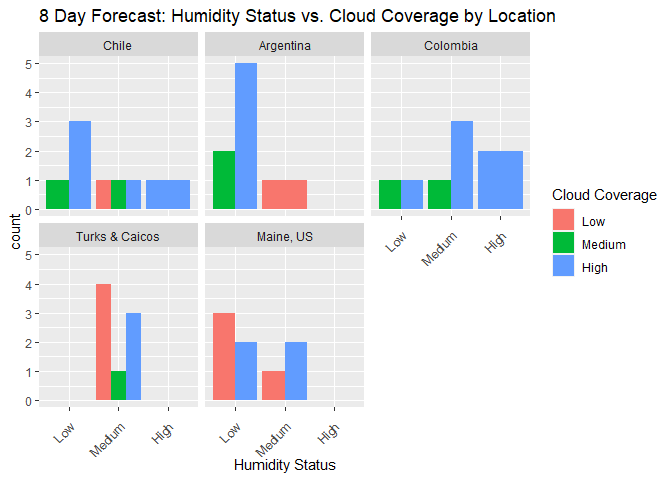
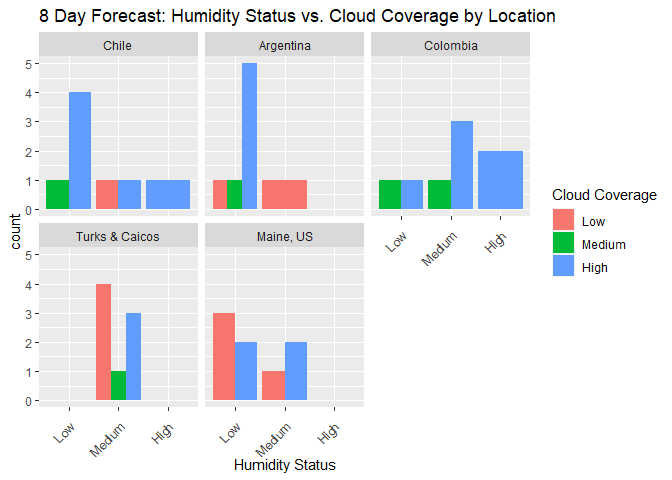
reload plots

Changed region(s): [[0.3125, 0.125, 0.375, 0.4375], [0.0938, 0.1875, 0.1562, 0.25], [0.1562, 0.375, 0.1875, 0.4375]]

diff --git a/Biggie_WeatherAPI_Project.md b/Biggie_WeatherAPI_Project.md
@@ -4,17 +4,17 @@ Autumn Biggie
 10/3/2021
 
 <head>
- <script src="/assets/jquery-1.11.1/jquery.min.js"></script>
+ <script src="https://rstudio.github.io/leaflet/assets/jquery-1.11.1/jquery.min.js"></script>
  <meta name="viewport" content="width=device-width, initial-scale=1" /> 
- <link href="/assets/bootstrap-3.3.1/css/bootstrap.min.css" rel="stylesheet" />
- <script src="/assets/bootstrap-3.3.1/js/bootstrap.min.js"></script>
- <script src="/assets/bootstrap-3.3.1/shim/html5shiv.min.js"></script>
- <script src="/assets/bootstrap-3.3.1/shim/respond.min.js"></script>
- <script src="/assets/htmlwidgets-0.5/htmlwidgets.js"></script>
- <link href="/assets/leaflet-0.7.3/leaflet.css" rel="stylesheet" />
- <script src="/assets/leaflet-0.7.3/leaflet.js"></script>
- <link href="/assets/leafletfix-1.0.0/leafletfix.css" rel="stylesheet" />
- <script src="/assets/leaflet-binding-1.0.1/leaflet.js"></script>
+ <link href="https://rstudio.github.io/leaflet/assets/bootstrap-3.3.1/css/bootstrap.min.css" rel="stylesheet" />
+ <script src="https://rstudio.github.io/leaflet/assets/bootstrap-3.3.1/js/bootstrap.min.js"></script>
+ <script src="https://rstudio.github.io/leaflet/assets/bootstrap-3.3.1/shim/html5shiv.min.js"></script>
+ <script src="https://rstudio.github.io/leaflet/assets/bootstrap-3.3.1/shim/respond.min.js"></script>
+ <script src="https://rstudio.github.io/leaflet/assets/htmlwidgets-0.5/htmlwidgets.js"></script>
+ <link href="https://rstudio.github.io/leaflet/assets/leaflet-0.7.3/leaflet.css" rel="stylesheet" />
+ <script src="https://rstudio.github.io/leaflet/assets/leaflet-0.7.3/leaflet.js"></script>
+ <link href="https://rstudio.github.io/leaflet/assets/leafletfix-1.0.0/leafletfix.css" rel="stylesheet" />
+ <script src="https://rstudio.github.io/leaflet/assets/leaflet-binding-1.0.1/leaflet.js"></script>
 </head>
 
 In this document, we’ll walk through how to connect to an API, using an
@@ -117,8 +117,8 @@ analysis.
 I want to explore the weather data of five locations that lie roughly
 along the same line of longitude.
 
-<div id="htmlwidget-f006a532f02b135b45c4" style="width:672px;height:480px;" class="leaflet html-widget"></div>
-<script type="application/json" data-for="htmlwidget-f006a532f02b135b45c4">{"x":{"options":{"crs":{"crsClass":"L.CRS.EPSG3857","code":null,"proj4def":null,"projectedBounds":null,"options":{}}},"setView":[[0,-80],1,[]],"calls":[{"method":"addTiles","args":["//{s}.tile.openstreetmap.org/{z}/{x}/{y}.png",null,null,{"minZoom":0,"maxZoom":18,"tileSize":256,"subdomains":"abc","errorTileUrl":"","tms":false,"noWrap":false,"zoomOffset":0,"zoomReverse":false,"opacity":1,"zIndex":1,"detectRetina":false,"attribution":"&copy; <a href=\"http://openstreetmap.org\">OpenStreetMap<\/a> contributors, <a href=\"http://creativecommons.org/licenses/by-sa/2.0/\">CC-BY-SA<\/a>"}]},{"method":"addMarkers","args":[[44.19,21.28,7.54,-55.05,-51.38],[-69.47,-71.08,-72.3,-67.05,-69.13],null,null,null,{"interactive":true,"draggable":false,"keyboard":true,"title":"","alt":"","zIndexOffset":0,"opacity":1,"riseOnHover":false,"riseOffset":250},["Augusta, Maine, US","Cockburn Town, Turks & Caicos Islands","Cucata, Colombia","Puerto Toro, Chile","Rio Gallegos, Argentina"],null,null,null,null,{"interactive":false,"permanent":false,"direction":"auto","opacity":1,"offset":[0,0],"textsize":"10px","textOnly":false,"className":"","sticky":true},null]}],"limits":{"lat":[-55.05,44.19],"lng":[-72.3,-67.05]}},"evals":[],"jsHooks":[]}</script>
+<div id="htmlwidget-41770cd5477d700326f1" style="width:672px;height:480px;" class="leaflet html-widget"></div>
+<script type="application/json" data-for="htmlwidget-41770cd5477d700326f1">{"x":{"options":{"crs":{"crsClass":"L.CRS.EPSG3857","code":null,"proj4def":null,"projectedBounds":null,"options":{}}},"setView":[[0,-80],1,[]],"calls":[{"method":"addTiles","args":["//{s}.tile.openstreetmap.org/{z}/{x}/{y}.png",null,null,{"minZoom":0,"maxZoom":18,"tileSize":256,"subdomains":"abc","errorTileUrl":"","tms":false,"noWrap":false,"zoomOffset":0,"zoomReverse":false,"opacity":1,"zIndex":1,"detectRetina":false,"attribution":"&copy; <a href=\"http://openstreetmap.org\">OpenStreetMap<\/a> contributors, <a href=\"http://creativecommons.org/licenses/by-sa/2.0/\">CC-BY-SA<\/a>"}]},{"method":"addMarkers","args":[[44.19,21.28,7.54,-55.05,-51.38],[-69.47,-71.08,-72.3,-67.05,-69.13],null,null,null,{"interactive":true,"draggable":false,"keyboard":true,"title":"","alt":"","zIndexOffset":0,"opacity":1,"riseOnHover":false,"riseOffset":250},["Augusta, Maine, US","Cockburn Town, Turks & Caicos Islands","Cucata, Colombia","Puerto Toro, Chile","Rio Gallegos, Argentina"],null,null,null,null,{"interactive":false,"permanent":false,"direction":"auto","opacity":1,"offset":[0,0],"textsize":"10px","textOnly":false,"className":"","sticky":true},null]}],"limits":{"lat":[-55.05,44.19],"lng":[-72.3,-67.05]}},"evals":[],"jsHooks":[]}</script>
 
 Locations:
 
@@ -148,7 +148,7 @@ Maine.day
     ## 7 1633968000 1633949266 1633989660 1633972140 1634002920       0.20    18.76
     ## 8 1634054400 1634035740 1634075955 1634062320 1634093100       0.25    23.38
     ##   temp.min temp.max temp.night temp.eve temp.morn feels_like.day
-    ## 1     7.96    19.43      10.85    12.70      8.29          17.17
+    ## 1     7.96    19.43      10.08    13.11      8.29          17.17
     ## 2     8.60    21.52      11.16    15.22      8.60          19.67
     ## 3     9.90    21.79      11.91    15.33      9.92          20.38
     ## 4     9.99    21.93      12.22    19.40     10.07          20.27
@@ -157,7 +157,7 @@ Maine.day
     ## 7     9.66    21.78      15.50    18.94      9.66          18.39
     ## 8    14.01    23.38      14.01    20.06     15.49          23.42
     ##   feels_like.night feels_like.eve feels_like.morn pressure humidity dew_point
-    ## 1            10.37          12.17            7.53     1024       54      8.24
+    ## 1             9.55          12.57            7.53     1024       54      8.24
     ## 2            10.73          14.78            8.06     1027       51      9.69
     ## 3            11.64          14.96            9.92     1025       54     10.99
     ## 4            11.33          19.09            9.51     1022       50      9.93
@@ -316,22 +316,22 @@ weather
     ## 22       Colombia 2021    10  10 06:36:12 18:35:43 10:35:00 22:36:00       0.16
     ## 23       Colombia 2021    10  11 06:36:08 18:35:16 11:39:00 23:38:00       0.20
     ## 24       Colombia 2021    10  12 06:36:05 18:34:48 12:40:00 19:00:00       0.25
-    ## 25      Argentina 2021    10   5 05:54:48 18:54:39 06:06:00 17:54:00       0.97
-    ## 26      Argentina 2021    10   6 05:52:32 18:56:19 06:23:00 19:19:00       0.00
-    ## 27      Argentina 2021    10   7 05:50:17 18:57:58 06:40:00 20:46:00       0.04
-    ## 28      Argentina 2021    10   8 05:48:02 18:59:38 06:59:00 22:15:00       0.08
-    ## 29      Argentina 2021    10   9 05:45:48 19:01:19 07:22:00 19:00:00       0.12
-    ## 30      Argentina 2021    10  10 05:43:34 19:03:00 07:54:00 23:43:00       0.16
-    ## 31      Argentina 2021    10  11 05:41:21 19:04:41 08:37:00 01:07:00       0.19
-    ## 32      Argentina 2021    10  12 05:39:09 19:06:23 09:34:00 02:18:00       0.23
-    ## 33          Chile 2021    10   5 05:42:28 18:50:21 06:01:00 17:44:00       0.97
-    ## 34          Chile 2021    10   6 05:39:55 18:52:17 06:13:00 19:14:00       0.00
-    ## 35          Chile 2021    10   7 05:37:23 18:54:14 06:25:00 20:47:00       0.04
-    ## 36          Chile 2021    10   8 05:34:51 18:56:11 06:40:00 22:21:00       0.08
-    ## 37          Chile 2021    10   9 05:32:20 18:58:09 06:58:00 19:00:00       0.12
-    ## 38          Chile 2021    10  10 05:29:49 19:00:07 07:24:00 23:56:00       0.16
-    ## 39          Chile 2021    10  11 05:27:18 19:02:06 08:02:00 01:23:00       0.19
-    ## 40          Chile 2021    10  12 05:24:49 19:04:05 08:57:00 02:37:00       0.23
+    ## 25      Argentina 2021    10   6 05:52:32 18:56:19 06:23:00 19:19:00       0.00
+    ## 26      Argentina 2021    10   7 05:50:17 18:57:58 06:40:00 20:46:00       0.04
+    ## 27      Argentina 2021    10   8 05:48:02 18:59:38 06:59:00 22:15:00       0.08
+    ## 28      Argentina 2021    10   9 05:45:48 19:01:19 07:22:00 19:00:00       0.12
+    ## 29      Argentina 2021    10  10 05:43:34 19:03:00 07:54:00 23:43:00       0.16
+    ## 30      Argentina 2021    10  11 05:41:21 19:04:41 08:37:00 01:07:00       0.19
+    ## 31      Argentina 2021    10  12 05:39:09 19:06:23 09:34:00 02:18:00       0.23
+    ## 32      Argentina 2021    10  13 05:36:57 19:08:05 10:44:00 03:13:00       0.25
+    ## 33          Chile 2021    10   6 05:39:55 18:52:17 06:13:00 19:14:00       0.00
+    ## 34          Chile 2021    10   7 05:37:23 18:54:14 06:25:00 20:47:00       0.04
+    ## 35          Chile 2021    10   8 05:34:51 18:56:11 06:40:00 22:21:00       0.08
+    ## 36          Chile 2021    10   9 05:32:20 18:58:09 06:58:00 19:00:00       0.12
+    ## 37          Chile 2021    10  10 05:29:49 19:00:07 07:24:00 23:56:00       0.16
+    ## 38          Chile 2021    10  11 05:27:18 19:02:06 08:02:00 01:23:00       0.19
+    ## 39          Chile 2021    10  12 05:24:49 19:04:05 08:57:00 02:37:00       0.23
+    ## 40          Chile 2021    10  13 05:22:19 19:06:05 10:09:00 03:30:00       0.25
     ##    pressure humidity dew_point wind_speed wind_deg wind_gust clouds  pop
     ## 1      1024       54      8.24       1.89       23      3.60     94 0.04
     ## 2      1027       51      9.69       1.87      345      3.02      4 0.00
@@ -357,22 +357,22 @@ weather
     ## 22     1015       66     14.73       1.83      111      2.81     43 1.00
     ## 23     1016       77     15.67       1.97      109      3.03     94 1.00
     ## 24     1016       73     15.98       2.15      106      2.98    100 1.00
-    ## 25     1021       45     -3.92      12.91      223     18.57     36 0.00
-    ## 26     1010       39     -4.04      14.48      241     20.62    100 0.20
-    ## 27     1014       59      1.03      13.21      242     18.16     43 0.00
-    ## 28     1000       43      2.19      13.13      230     16.16    100 0.00
-    ## 29      997       46      3.73      13.20      318     21.65    100 0.35
-    ## 30     1006       62      2.28      10.85       25     13.41     12 0.89
-    ## 31     1007       42     -2.38       6.71       25      8.64     81 0.00
-    ## 32      988       38     -1.03      11.42      332     15.32    100 0.01
-    ## 33     1017       66     -1.15      10.51      226     16.68     33 0.83
-    ## 34     1001       59      1.10       7.10      244     13.10     96 0.90
-    ## 35     1008       58     -0.61       8.44      236     14.17     98 0.00
-    ## 36      989       59      2.31      10.15      257     19.04     99 0.60
-    ## 37      988       85      3.47       8.70      333     20.81    100 0.64
-    ## 38     1000       61     -0.51      10.79      322     21.31     17 0.13
-    ## 39     1000       55     -0.98       8.14      330     15.48     59 0.07
-    ## 40      986       63      2.60       5.21      359     10.83    100 0.00
+    ## 25     1010       39     -4.04      14.48      241     20.62    100 0.20
+    ## 26     1014       59      1.03      13.21      242     18.16     43 0.00
+    ## 27     1000       43      2.19      13.13      230     16.16    100 0.00
+    ## 28      997       46      3.73      13.20      318     21.65    100 0.35
+    ## 29     1006       62      2.28      10.85       25     13.41     12 0.89
+    ## 30     1007       42     -2.38       6.71       25      8.64     81 0.00
+    ## 31      988       38     -1.03      11.42      332     15.32    100 0.01
+    ## 32      992       41     -4.98      12.41      251     16.71      5 0.39
+    ## 33     1001       59      1.10       7.10      244     13.10     96 0.90
+    ## 34     1008       58     -0.61       8.44      236     14.17     98 0.00
+    ## 35      989       59      2.31      10.15      257     19.04     99 0.60
+    ## 36      988       85      3.47       8.70      333     20.81    100 0.64
+    ## 37     1000       61     -0.51      10.79      322     21.31     17 0.13
+    ## 38     1000       55     -0.98       8.14      330     15.48     59 0.07
+    ## 39      986       63      2.60       5.21      359     10.83    100 0.00
+    ## 40      984       53     -3.25       7.81      320     13.95     96 0.84
     ##    mintemp maxtemp humidity.status cloud.coverage
     ## 1     7.96   19.43             Low           High
     ## 2     8.60   21.52             Low            Low
@@ -382,8 +382,8 @@ weather
     ## 6     5.98   16.11          Medium           High
     ## 7     9.66   21.78          Medium           High
     ## 8    14.01   23.38          Medium            Low
-    ## 9    28.45   28.76          Medium           High
-    ## 10   28.54   28.76          Medium            Low
+    ## 9    28.42   28.76          Medium           High
+    ## 10   28.52   28.76          Medium            Low
     ## 11   28.09   28.64          Medium            Low
     ## 12   27.88   28.54          Medium            Low
     ## 13   28.11   28.76          Medium            Low
@@ -398,22 +398,22 @@ weather
     ## 22   12.73   20.25          Medium         Medium
     ## 23   12.55   19.68          Medium           High
     ## 24   14.04   20.23          Medium           High
-    ## 25    1.34    8.99             Low         Medium
-    ## 26    1.93   12.61             Low           High
-    ## 27    3.24    9.67             Low         Medium
-    ## 28    6.48   14.69             Low           High
-    ## 29    5.83   16.58             Low           High
-    ## 30    3.94   12.20          Medium            Low
-    ## 31    5.28   11.35             Low           High
-    ## 32    6.66   14.54             Low           High
-    ## 33    1.84    6.24          Medium         Medium
-    ## 34    2.02    9.94             Low           High
-    ## 35    1.95    8.16             Low           High
-    ## 36    4.42   10.65             Low           High
-    ## 37    2.05    9.95            High           High
-    ## 38    2.07    8.73          Medium            Low
-    ## 39    3.08    8.76             Low         Medium
-    ## 40    3.99   11.44          Medium           High
+    ## 25    1.34   12.61             Low           High
+    ## 26    3.24    9.67             Low         Medium
+    ## 27    6.48   14.69             Low           High
+    ## 28    5.83   16.58             Low           High
+    ## 29    3.94   12.20          Medium            Low
+    ## 30    5.28   11.35             Low           High
+    ## 31    6.66   14.54             Low           High
+    ## 32    3.21    8.22             Low            Low
+    ## 33    1.72    9.94             Low           High
+    ## 34    1.95    8.16             Low           High
+    ## 35    4.42   10.65             Low           High
+    ## 36    2.05    9.95            High           High
+    ## 37    2.07    8.73          Medium            Low
+    ## 38    3.08    8.76             Low         Medium
+    ## 39    3.99   11.44          Medium           High
+    ## 40    1.52    6.84             Low           High
 
 ### Contingency Tables
 
@@ -429,8 +429,8 @@ tabz1
 
     ##                        weather$cloud.coverage
     ## weather$humidity.status Low Medium High
-    ##                  Low      3      4   11
-    ##                  Medium   7      3    9
+    ##                  Low      4      3   12
+    ##                  Medium   7      2    9
     ##                  High     0      0    3
 
 It looks like there were 10 forecast observations that predicted high
@@ -452,7 +452,7 @@ tabz2
     ## 
     ##                        weather$cloud.coverage
     ## weather$humidity.status Low Medium High
-    ##                  Low      0      2    5
+    ##                  Low      1      1    5
     ##                  Medium   1      0    0
     ##                  High     0      0    0
     ## 
@@ -460,8 +460,8 @@ tabz2
     ## 
     ##                        weather$cloud.coverage
     ## weather$humidity.status Low Medium High
-    ##                  Low      0      1    3
-    ##                  Medium   1      1    1
+    ##                  Low      0      1    4
+    ##                  Medium   1      0    1
     ##                  High     0      0    1
     ## 
     ## , , weather$location = Colombia
@@ -517,10 +517,10 @@ weather %>% group_by(location) %>% summarise(avghigh = mean(maxtemp), avglow = m
     ## # A tibble: 5 x 6
     ##   location       avghigh avglow sdhigh sdlow   IQR
     ##   <ord>            <dbl>  <dbl>  <dbl> <dbl> <dbl>
-    ## 1 Chile             9.23   2.68  1.62  1.02  1.54 
-    ## 2 Argentina        12.6    4.34  2.60  2.04  3.65 
+    ## 1 Chile             9.31   2.6   1.47  1.10  1.54 
+    ## 2 Argentina        12.5    4.50  2.76  1.87  3.65 
     ## 3 Colombia         20.4   12.9   1.12  0.607 0.565
-    ## 4 Turks & Caicos   28.7   28.3   0.107 0.242 0.105
+    ## 4 Turks & Caicos   28.7   28.3   0.107 0.236 0.105
     ## 5 Maine, US        20.0    9.10  3.19  2.47  3.23
 
 It’s clear that the average high and average low peak near the middle of
@@ -537,8 +537,8 @@ weather %>% group_by(location) %>% summarise(avg_humidity = mean(humidity), sd.h
     ## # A tibble: 5 x 3
     ##   location       avg_humidity sd.humidity
     ##   <ord>                 <dbl>       <dbl>
-    ## 1 Chile                  63.2        9.39
-    ## 2 Argentina              46.8        8.94
+    ## 1 Chile                  61.6        9.96
+    ## 2 Argentina              46.2        9.16
     ## 3 Colombia               70.4       11.3 
     ## 4 Turks & Caicos         75.5        1.41
     ## 5 Maine, US              57.6        6.78
@@ -672,22 +672,22 @@ weather
     ## 22       Colombia 2021    10  10  396.20 1115.72      635    1356       0.16
     ## 23       Colombia 2021    10  11  396.13 1115.27      699    1418       0.20
     ## 24       Colombia 2021    10  12  396.08 1114.80      760    1140       0.25
-    ## 25      Argentina 2021    10   5  354.80 1134.65      366    1074       0.97
-    ## 26      Argentina 2021    10   6  352.53 1136.32      383    1159       0.00
-    ## 27      Argentina 2021    10   7  350.28 1137.97      400    1246       0.04
-    ## 28      Argentina 2021    10   8  348.03 1139.63      419    1335       0.08
-    ## 29      Argentina 2021    10   9  345.80 1141.32      442    1140       0.12
-    ## 30      Argentina 2021    10  10  343.57 1143.00      474    1423       0.16
-    ## 31      Argentina 2021    10  11  341.35 1144.68      517      67       0.19
-    ## 32      Argentina 2021    10  12  339.15 1146.38      574     138       0.23
-    ## 33          Chile 2021    10   5  342.47 1130.35      361    1064       0.97
-    ## 34          Chile 2021    10   6  339.92 1132.28      373    1154       0.00
-    ## 35          Chile 2021    10   7  337.38 1134.23      385    1247       0.04
-    ## 36          Chile 2021    10   8  334.85 1136.18      400    1341       0.08
-    ## 37          Chile 2021    10   9  332.33 1138.15      418    1140       0.12
-    ## 38          Chile 2021    10  10  329.82 1140.12      444    1436       0.16
-    ## 39          Chile 2021    10  11  327.30 1142.10      482      83       0.19
-    ## 40          Chile 2021    10  12  324.82 1144.08      537     157       0.23
+    ## 25      Argentina 2021    10   6  352.53 1136.32      383    1159       0.00
+    ## 26      Argentina 2021    10   7  350.28 1137.97      400    1246       0.04
+    ## 27      Argentina 2021    10   8  348.03 1139.63      419    1335       0.08
+    ## 28      Argentina 2021    10   9  345.80 1141.32      442    1140       0.12
+    ## 29      Argentina 2021    10  10  343.57 1143.00      474    1423       0.16
+    ## 30      Argentina 2021    10  11  341.35 1144.68      517      67       0.19
+    ## 31      Argentina 2021    10  12  339.15 1146.38      574     138       0.23
+    ## 32      Argentina 2021    10  13  336.95 1148.08      644     193       0.25
+    ## 33          Chile 2021    10   6  339.92 1132.28      373    1154       0.00
+    ## 34          Chile 2021    10   7  337.38 1134.23      385    1247       0.04
+    ## 35          Chile 2021    10   8  334.85 1136.18      400    1341       0.08
+    ## 36          Chile 2021    10   9  332.33 1138.15      418    1140       0.12
+    ## 37          Chile 2021    10  10  329.82 1140.12      444    1436       0.16
+    ## 38          Chile 2021    10  11  327.30 1142.10      482      83       0.19
+    ## 39          Chile 2021    10  12  324.82 1144.08      537     157       0.23
+    ## 40          Chile 2021    10  13  322.32 1146.08      609     210       0.25
     ##    pressure humidity dew_point wind_speed wind_deg wind_gust clouds  pop
     ## 1      1024       54      8.24       1.89       23      3.60     94 0.04
     ## 2      1027       51      9.69       1.87      345      3.02      4 0.00
@@ -713,22 +713,22 @@ weather
     ## 22     1015       66     14.73       1.83      111      2.81     43 1.00
     ## 23     1016       77     15.67       1.97      109      3.03     94 1.00
     ## 24     1016       73     15.98       2.15      106      2.98    100 1.00
-    ## 25     1021       45     -3.92      12.91      223     18.57     36 0.00
-    ## 26     1010       39     -4.04      14.48      241     20.62    100 0.20
-    ## 27     1014       59      1.03      13.21      242     18.16     43 0.00
-    ## 28     1000       43      2.19      13.13      230     16.16    100 0.00
-    ## 29      997       46      3.73      13.20      318     21.65    100 0.35
-    ## 30     1006       62      2.28      10.85       25     13.41     12 0.89
-    ## 31     1007       42     -2.38       6.71       25      8.64     81 0.00
-    ## 32      988       38     -1.03      11.42      332     15.32    100 0.01
-    ## 33     1017       66     -1.15      10.51      226     16.68     33 0.83
-    ## 34     1001       59      1.10       7.10      244     13.10     96 0.90
-    ## 35     1008       58     -0.61       8.44      236     14.17     98 0.00
-    ## 36      989       59      2.31      10.15      257     19.04     99 0.60
-    ## 37      988       85      3.47       8.70      333     20.81    100 0.64
-    ## 38     1000       61     -0.51      10.79      322     21.31     17 0.13
-    ## 39     1000       55     -0.98       8.14      330     15.48     59 0.07
-    ## 40      986       63      2.60       5.21      359     10.83    100 0.00
+    ## 25     1010       39     -4.04      14.48      241     20.62    100 0.20
+    ## 26     1014       59      1.03      13.21      242     18.16     43 0.00
+    ## 27     1000       43      2.19      13.13      230     16.16    100 0.00
+    ## 28      997       46      3.73      13.20      318     21.65    100 0.35
+    ## 29     1006       62      2.28      10.85       25     13.41     12 0.89
+    ## 30     1007       42     -2.38       6.71       25      8.64     81 0.00
+    ## 31      988       38     -1.03      11.42      332     15.32    100 0.01
+    ## 32      992       41     -4.98      12.41      251     16.71      5 0.39
+    ## 33     1001       59      1.10       7.10      244     13.10     96 0.90
+    ## 34     1008       58     -0.61       8.44      236     14.17     98 0.00
+    ## 35      989       59      2.31      10.15      257     19.04     99 0.60
+    ## 36      988       85      3.47       8.70      333     20.81    100 0.64
+    ## 37     1000       61     -0.51      10.79      322     21.31     17 0.13
+    ## 38     1000       55     -0.98       8.14      330     15.48     59 0.07
+    ## 39      986       63      2.60       5.21      359     10.83    100 0.00
+    ## 40      984       53     -3.25       7.81      320     13.95     96 0.84
     ##    mintemp maxtemp humidity.status cloud.coverage
     ## 1     7.96   19.43             Low           High
     ## 2     8.60   21.52             Low            Low
@@ -738,8 +738,8 @@ weather
     ## 6     5.98   16.11          Medium           High
     ## 7     9.66   21.78          Medium           High
     ## 8    14.01   23.38          Medium            Low
-    ## 9    28.45   28.76          Medium           High
-    ## 10   28.54   28.76          Medium            Low
+    ## 9    28.42   28.76          Medium           High
+    ## 10   28.52   28.76          Medium            Low
     ## 11   28.09   28.64          Medium            Low
     ## 12   27.88   28.54          Medium            Low
     ## 13   28.11   28.76          Medium            Low
@@ -754,22 +754,22 @@ weather
     ## 22   12.73   20.25          Medium         Medium
     ## 23   12.55   19.68          Medium           High
     ## 24   14.04   20.23          Medium           High
-    ## 25    1.34    8.99             Low         Medium
-    ## 26    1.93   12.61             Low           High
-    ## 27    3.24    9.67             Low         Medium
-    ## 28    6.48   14.69             Low           High
-    ## 29    5.83   16.58             Low           High
-    ## 30    3.94   12.20          Medium            Low
-    ## 31    5.28   11.35             Low           High
-    ## 32    6.66   14.54             Low           High
-    ## 33    1.84    6.24          Medium         Medium
-    ## 34    2.02    9.94             Low           High
-    ## 35    1.95    8.16             Low           High
-    ## 36    4.42   10.65             Low           High
-    ## 37    2.05    9.95            High           High
-    ## 38    2.07    8.73          Medium            Low
-    ## 39    3.08    8.76             Low         Medium
-    ## 40    3.99   11.44          Medium           High
+    ## 25    1.34   12.61             Low           High
+    ## 26    3.24    9.67             Low         Medium
+    ## 27    6.48   14.69             Low           High
+    ## 28    5.83   16.58             Low           High
+    ## 29    3.94   12.20          Medium            Low
+    ## 30    5.28   11.35             Low           High
+    ## 31    6.66   14.54             Low           High
+    ## 32    3.21    8.22             Low            Low
+    ## 33    1.72    9.94             Low           High
+    ## 34    1.95    8.16             Low           High
+    ## 35    4.42   10.65             Low           High
+    ## 36    2.05    9.95            High           High
+    ## 37    2.07    8.73          Medium            Low
+    ## 38    3.08    8.76             Low         Medium
+    ## 39    3.99   11.44          Medium           High
+    ## 40    1.52    6.84             Low           High
 
 The scatterplot below allows us to look at how sunrise time changes over
 the course of 8 days in each location.
